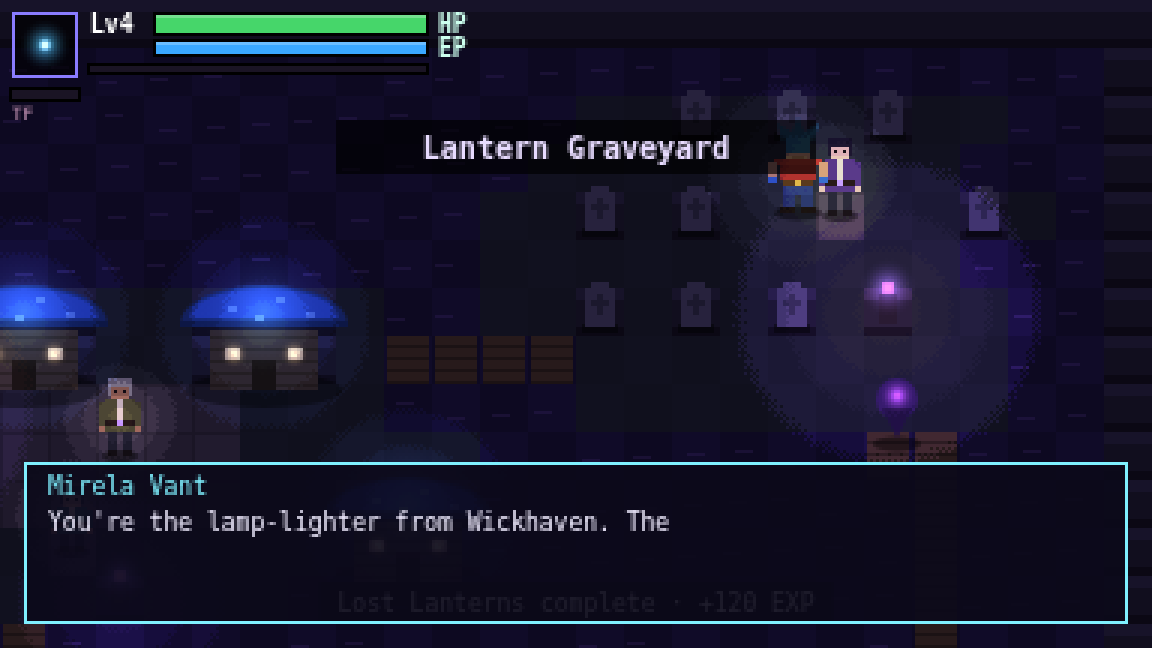
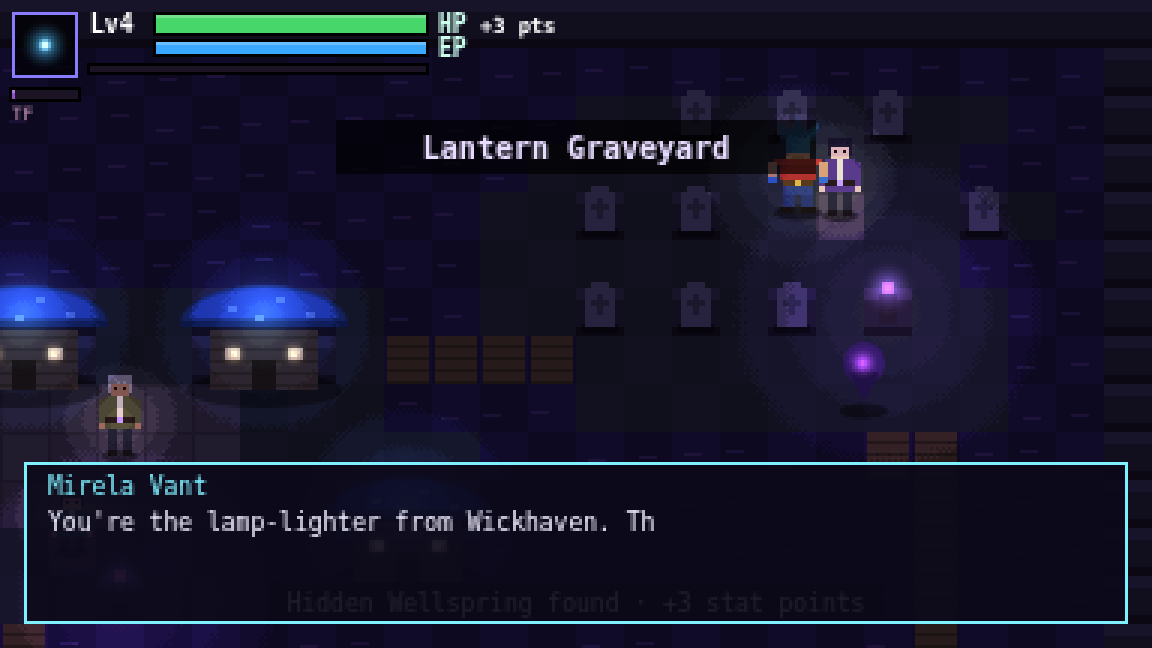
world: hidden Wellspring in Lanternmoss (false water, +3 pts, heal)

diff --git a/src/areas/art.ts b/src/areas/art.ts
@@ -1,7 +1,7 @@
 /** World art for areas: tile palettes, props (mushroom houses, cap trees, graves), NPCs, wards, updraft stones, and the story overlay. */
 import type { Game } from "../game";
 import type { Story } from "../story";
-import { TILE, T_WALL, T_MOSS, T_PLAZA, T_WATER, T_PATH, T_BOARD, T_WARD, wardOpen } from "../world";
+import { TILE, T_WALL, T_MOSS, T_PLAZA, T_WATER, T_PATH, T_BOARD, T_WARD, T_HIDDEN, wardOpen } from "../world";
 import { NPCS, INTRO } from "../story/script";
 
 type C2 = CanvasRenderingContext2D;
@@ -11,6 +11,7 @@ const PAL = {
 };
 
 export function tile(c: C2, theme: "moss" | "marsh", v: number, X: number, Y: number, tx: number, ty: number, time: number) {
+  if (v === T_HIDDEN) v = T_WATER;
   const P = PAL[theme], ch = (tx + ty) & 1;
   if (v === T_WALL) { c.fillStyle = P.wall[0]; c.fillRect(X, Y, TILE, TILE); c.fillStyle = P.wall[1]; c.fillRect(X, Y, TILE, 4); c.fillStyle = P.wall[2]; c.fillRect(X, Y + 13, TILE, 3); }
   else if (v === T_PLAZA) { c.fillStyle = ch ? "#5a5260" : "#544c5a"; c.fillRect(X, Y, TILE, TILE); c.fillStyle = "#463f4c"; c.fillRect(X, Y, TILE, 1); c.fillRect(X, Y, 1, TILE); }
@@ -95,6 +96,7 @@ export function worldLights(g: Game, cx: number, cy: number, add: (x: number, y:
   for (const p of g.area.props) if (p.kind === "house") add(p.x - cx, p.y - cy - 12, 56, [0.35, 0.55, 1], 0);
   for (const s of g.area.travel) add(s.x - cx, s.y - cy, 52, [0.7, 0.9, 1], 0);
   for (const n of g.area.npcs) add(n.x - cx, n.y - cy - 12, 30, [0.8, 0.75, 0.7], 0);
+  for (const s of g.area.springs) add(s.x - cx, s.y - cy, 60, [0.5, 1, 0.8], 0);
   for (const o of g.area.orbs) if (!st?.flags[`orb_${g.area.id}_${o.i}`]) add(o.x - cx, o.y - cy - 10, 36, [0.45, 0.85, 1], 0);
 }
 /** Additive glows after the light layer. */
@@ -102,6 +104,10 @@ export function worldGlow(c: C2, g: Game, cx: number, cy: number, glow: (c: C2, 
   for (const p of g.area.props) {
     if (p.kind === "house") { glow(c, p.x - cx, p.y - cy - 16, 22, "rgba(80,140,255,.35)"); glow(c, p.x - cx - 10, p.y - cy - 2, 5, "rgba(255,210,140,.7)"); glow(c, p.x - cx + 10, p.y - cy - 2, 5, "rgba(255,210,140,.7)"); }
     else if (p.kind === "tree") glow(c, p.x - cx, p.y - cy - 17, 10, g.area.theme === "marsh" ? "rgba(170,110,255,.45)" : "rgba(90,220,240,.4)");
+  }
+  for (const s of g.area.springs) {
+    const X = s.x - cx, Y = s.y - cy, k = 0.6 + 0.4 * Math.sin(g.time * 2.4);
+    glow(c, X, Y, 18, `rgba(110,255,200,${0.35 * k})`); glow(c, X, Y - 6 - ((g.time * 14) % 10), 3, "rgba(220,255,240,.8)");
   }
   for (const o of g.area.orbs) if (!st?.flags[`orb_${g.area.id}_${o.i}`]) {
     const X = o.x - cx + Math.sin(g.time * 1.3 + o.i) * 3, Y = o.y - cy - 10 + Math.sin(g.time * 2 + o.i * 2) * 3;
@@ -157,7 +163,7 @@ export function storyOverlay(c: C2, g: Game, s: Story, W: number, H: number) {
 /** Lens map of the current area: terrain, zone names, hearthstone, stones, NPCs, foes, hero. */
 export function areaMap(c: C2, g: Game, ox: number, oy: number, s: number) {
   const a = g.area, M = 48;
-  const col: Record<number, string> = { [T_WALL]: "#4c4560", [T_PLAZA]: "#6a6070", [T_WATER]: a.theme === "marsh" ? "#2a1e52" : "#1c2e58", [T_PATH]: "#5a4c3c", [T_BOARD]: "#7a5a3a", [T_MOSS]: "#2a3c2a", [T_WARD]: wardOpen ? "#26232e" : "#7ff0ff" };
+  const col: Record<number, string> = { [T_WALL]: "#4c4560", [T_PLAZA]: "#6a6070", [T_WATER]: a.theme === "marsh" ? "#2a1e52" : "#1c2e58", [T_PATH]: "#5a4c3c", [T_BOARD]: "#7a5a3a", [T_MOSS]: "#2a3c2a", [T_HIDDEN]: a.theme === "marsh" ? "#2a1e52" : "#1c2e58", [T_WARD]: wardOpen ? "#26232e" : "#7ff0ff" };
   for (let y = 0; y < 34; y++) for (let x = 0; x < M; x++) { c.fillStyle = col[a.tiles[y * M + x]] ?? "#26232e"; c.fillRect(ox + x * s, oy + y * s, Math.ceil(s), Math.ceil(s)); }
   for (const p of a.props) { c.fillStyle = p.kind === "house" ? "#3c64c8" : p.kind === "tree" ? "#48b0c0" : "#8a8aa0"; c.fillRect(ox + (p.x / TILE) * s - 1.5, oy + (p.y / TILE) * s - 1.5, 3, 3); }
   c.font = "6px monospace"; c.textAlign = "center"; c.fillStyle = "rgba(255,240,200,.85)";

diff --git a/src/world.ts b/src/world.ts
@@ -2,7 +2,7 @@
 import { LANTERNMOSS, HUSHWATER } from "./areas/maps";
 export const TILE = 16;
 export const MW = 48, MH = 34;
-export const T_FLOOR = 0, T_WALL = 1, T_MOSS = 2, T_PLAZA = 3, T_WATER = 4, T_PATH = 5, T_BOARD = 6, T_WARD = 7;
+export const T_FLOOR = 0, T_WALL = 1, T_MOSS = 2, T_PLAZA = 3, T_WATER = 4, T_PATH = 5, T_BOARD = 6, T_WARD = 7, T_HIDDEN = 8;
 export interface Lamp { x: number; y: number; c: readonly [number, number, number]; seed: number }
 export interface Spawn { kind: "brute" | "wisp"; x: number; y: number }
 export interface Prop { kind: "house" | "tree" | "grave"; x: number; y: number }
@@ -13,7 +13,7 @@ export interface Ward { tx: number; ty: number; lvl: number }
 export interface Area {
   id: string; name: string; music: string; theme: "moss" | "marsh";
   tiles: Uint8Array; lamps: Lamp[]; pad: { x: number; y: number }; start: { x: number; y: number }; spawns: Spawn[];
-  props: Prop[]; npcs: Npc[]; orbs: Orb[]; travel: Travel[]; wards: Ward[];
+  props: Prop[]; npcs: Npc[]; orbs: Orb[]; springs: { x: number; y: number }[]; travel: Travel[]; wards: Ward[];
   zones: { name: string; x0: number; y0: number; x1: number; y1: number }[];
 }
 
@@ -33,13 +33,13 @@ export const AREA_DEFS: Record<string, Def> = {
   },
 };
 
-const TILECH: Record<string, number> = { "#": T_WALL, ",": T_MOSS, "=": T_PLAZA, "~": T_WATER, ":": T_PATH, b: T_BOARD, W: T_WARD };
+const TILECH: Record<string, number> = { "#": T_WALL, ",": T_MOSS, "=": T_PLAZA, "~": T_WATER, ":": T_PATH, b: T_BOARD, W: T_WARD, V: T_HIDDEN, K: T_MOSS };
 
 export function buildArea(id = "lanternmoss"): Area {
   const d = AREA_DEFS[id] ?? AREA_DEFS.lanternmoss;
   const t = new Uint8Array(MW * MH);
   const C = (n: number) => n * TILE + 8;
-  const lamps: Lamp[] = [], props: Prop[] = [], npcs: Npc[] = [], spawns: Spawn[] = [], travel: Travel[] = [], wards: Ward[] = [], orbs: Orb[] = [];
+  const lamps: Lamp[] = [], props: Prop[] = [], npcs: Npc[] = [], spawns: Spawn[] = [], travel: Travel[] = [], wards: Ward[] = [], orbs: Orb[] = [], springs: { x: number; y: number }[] = [];
   let pad = { x: C(2), y: C(2) }, start: { x: number; y: number } | null = null;
   for (let y = 0; y < MH; y++) for (let x = 0; x < MW; x++) {
     let ch = (d.rows[y] ?? "")[x] ?? "#";
@@ -51,6 +51,7 @@ export function buildArea(id = "lanternmoss"): Area {
     else if (ch === "H") props.push({ kind: "house", x: C(x + 1), y: C(y + 1) });
     else if (ch === "S") { pad = { x: C(x), y: C(y) }; v = T_PLAZA; }
     else if (ch === "@") start = { x: C(x), y: C(y) };
+    else if (ch === "K") springs.push({ x: C(x), y: C(y) });
     else if (ch === "*") orbs.push({ i: orbs.length, x: C(x), y: C(y) });
     else if (ch === "U") travel.push({ x: C(x), y: C(y), to: d.to, label: d.toLabel });
     else if (ch === "W") wards.push({ tx: x, ty: y, lvl: d.wardLvl });
@@ -64,7 +65,7 @@ export function buildArea(id = "lanternmoss"): Area {
     for (let yy = ty; yy < ty + 2; yy++) for (let xx = tx; xx < tx + 3; xx++) t[yy * MW + xx] = T_WALL;
   }
   // a lamp glow on every house and plaza edge looks busy; houses carry their own cap glow (drawn in areas/art.ts)
-  return { id: d.id, name: d.name, music: d.music, theme: d.theme, tiles: t, lamps, pad, start: start ?? { x: pad.x, y: pad.y + 2 * TILE }, spawns, props, npcs, orbs, travel, wards, zones: d.zones };
+  return { id: d.id, name: d.name, music: d.music, theme: d.theme, tiles: t, lamps, pad, start: start ?? { x: pad.x, y: pad.y + 2 * TILE }, spawns, props, npcs, orbs, springs, travel, wards, zones: d.zones };
 }
 
 export function zoneAt(a: Area, px: number, py: number) {

diff --git a/src/story/script.ts b/src/story/script.ts
@@ -19,7 +19,7 @@ export const NPCS: Record<string, Record<string, NpcDef>> = {
     o: { name: "Odile Brask", coat: "#6a4630", hair: "#a03828", skin: "#e0a078", trim: "#ffb040", lines: () =>
       ["Mushroom-iron and stubbornness. That's all gear is.", "Bring me something worth forging and I'll make you a pair of boots you won't want to take off."] },
     j: { name: "Joss Tumble", coat: "#3c6a48", hair: "#e0c060", skin: "#f0c8a0", trim: "#f07020", tall: -3, lines: () =>
-      ["Potions! Gossip! Same price!", "Gossip's free today: the fen folk say vampires in red sashes are walking the boardwalks. Vampires! In this economy."] },
+      ["Potions! Gossip! Same price!", "Gossip's free today: the fen folk say vampires in red sashes are walking the boardwalks. Vampires! In this economy.", "Old Pip swears the southwest marsh lies about where the water ends. Bottom corner, past the boardwalk. Don't tell him I told you."] },
     p: { name: "Pip Arden", coat: "#8a3a4a", hair: "#4a3020", skin: "#e8b890", trim: "#60e0ff", tall: -7, lines: (f) =>
       f.orbsDone ? ["They're all home! They keep bumping into each other. It's very cute."]
       : (f.orbs as number) >= 6 ? ["You found ALL of them?! Hold still, I'm counting... six! Six!", "Here, take some of my glow. You earned it."]

diff --git a/src/areas/maps.ts b/src/areas/maps.ts
@@ -1,7 +1,7 @@
 /**
  * Area maps, 48x34 ASCII (rows padded/clipped; border forced to wall).
  * #wall .floor ,moss =plaza :path ~water(solid) b boardwalk  T mushroom tree  G grave  H mushroom house (3x2, top-left)
- * * glow orb (Lost Lanterns)  L lamp  S hearthstone(save)  @ start  U updraft stone  W sealed ward (gate)  g golem/brute  w wisp  a-z (other) NPC ids per area
+ * * glow orb (Lost Lanterns)  K hidden spring  V false water (walkable)  L lamp  S hearthstone(save)  @ start  U updraft stone  W sealed ward (gate)  g golem/brute  w wisp  a-z (other) NPC ids per area
  */
 export const LANTERNMOSS = [
   "################################################",
@@ -36,7 +36,7 @@ export const LANTERNMOSS = [
   "#~~~~~b...T......w.....T.....,,,...T....,,.....#",
   "#~~~~bb.......................*,.........L.....#",
   "#~~~~b...T..........T...........T..............#",
-  "#~~~~..........................................#",
+  "#.KVV..........................................#",
   "################################################",
 ];
 /** Hushwater: a violet-lit marsh town of boardwalks, a graveyard on the hill and Mirela's lantern-keeper lodge. */

diff --git a/src/story/index.ts b/src/story/index.ts
@@ -86,6 +86,11 @@ export class Story {
       this.say("Updraft stone", [`The rune slab hums. Ride the updraft to ${s.label}?`, "(Melee to fly. Step off to stay.)"], () => { this.fly = 1.8; this.flyTo = s.to; });
       return true;
     }
+    for (const s of g.area.springs) if (Math.hypot(s.x - g.p.x, s.y - g.p.y) < 14) {
+      if (!this.flags.spring) { this.flags.spring = true; g.pts += 3; this.save(); g.say("Hidden Wellspring found · +3 stat points", 3); }
+      else if (g.hp < g.maxHp || g.ep < g.maxEp) g.say("The spring restores you", 1.2);
+      g.hp = g.maxHp; g.ep = g.maxEp;
+    }
     for (const o of g.area.orbs) {
       const k = `orb_${g.area.id}_${o.i}`;
       if (!this.flags[k] && Math.hypot(o.x - g.p.x, o.y + 6 - g.p.y) < 14) {

diff --git a/HANDOFF.md b/HANDOFF.md
@@ -13,3 +13,5 @@
 
 - Executor W2 (done, live): Lost Lanterns — 6 `*` glow orbs in Lanternmoss (story flags orb_*/orbs/orbsDone), Pip gives +120 EXP, cyan dots on Lens map. Next: hidden spring, Hushwater quests, Wellspring Grotto arena layout.
 - 2026-10-23 23:00 Master Builder: combat 0.3.0 on main (techniques, power meter/transform, rusher/shooter/tank, Warden Rune boss + arena, sprites). Test: `node tests/combat.mjs`. Hooks marked `// MB hook`. Boss arena is tile (38,17) in lanternmoss (`ARENA` in src/game/enemies/boss.ts) — move it when the Wellspring Grotto layout lands.
+- 2026-10-23 23:00 Master Builder: combat 0.3.0 on main (techniques, power meter/transform, rusher/shooter/tank, Ashmaw boss + arena, sprites). Test: `node tests/combat.mjs`. Hooks marked `// MB hook`. Boss arena is tile (38,17) in lanternmoss (`ARENA` in src/game/enemies/boss.ts) — move it when the Wellspring Grotto layout lands.
+- Executor W3 (done, live): hidden spring — `K` spring behind `V` false water (SW corner Lanternmoss); first visit +3 stat points (flag spring), always full heal; Joss hints it.
